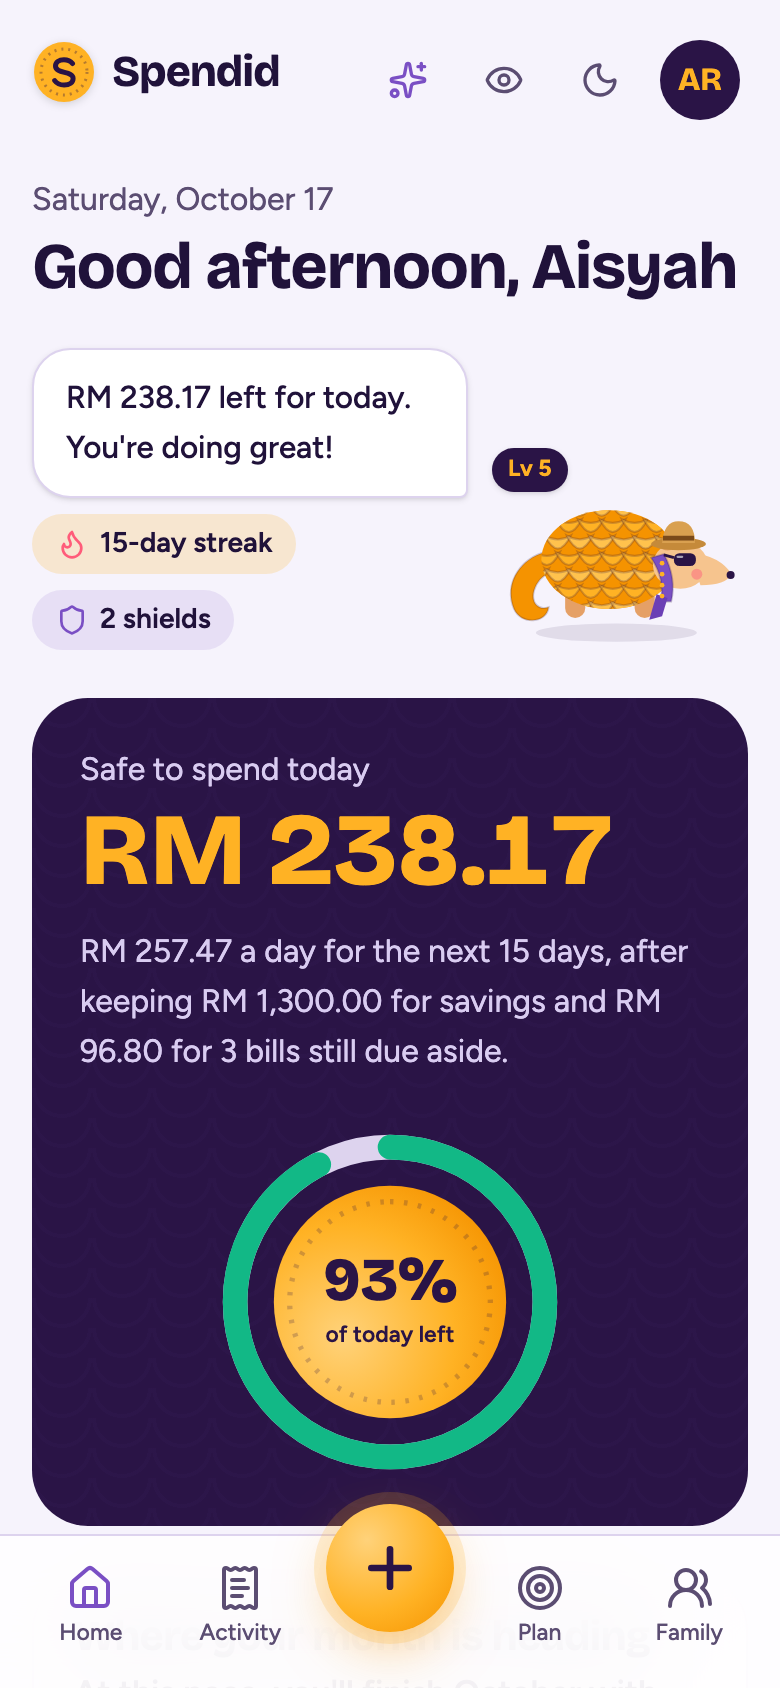
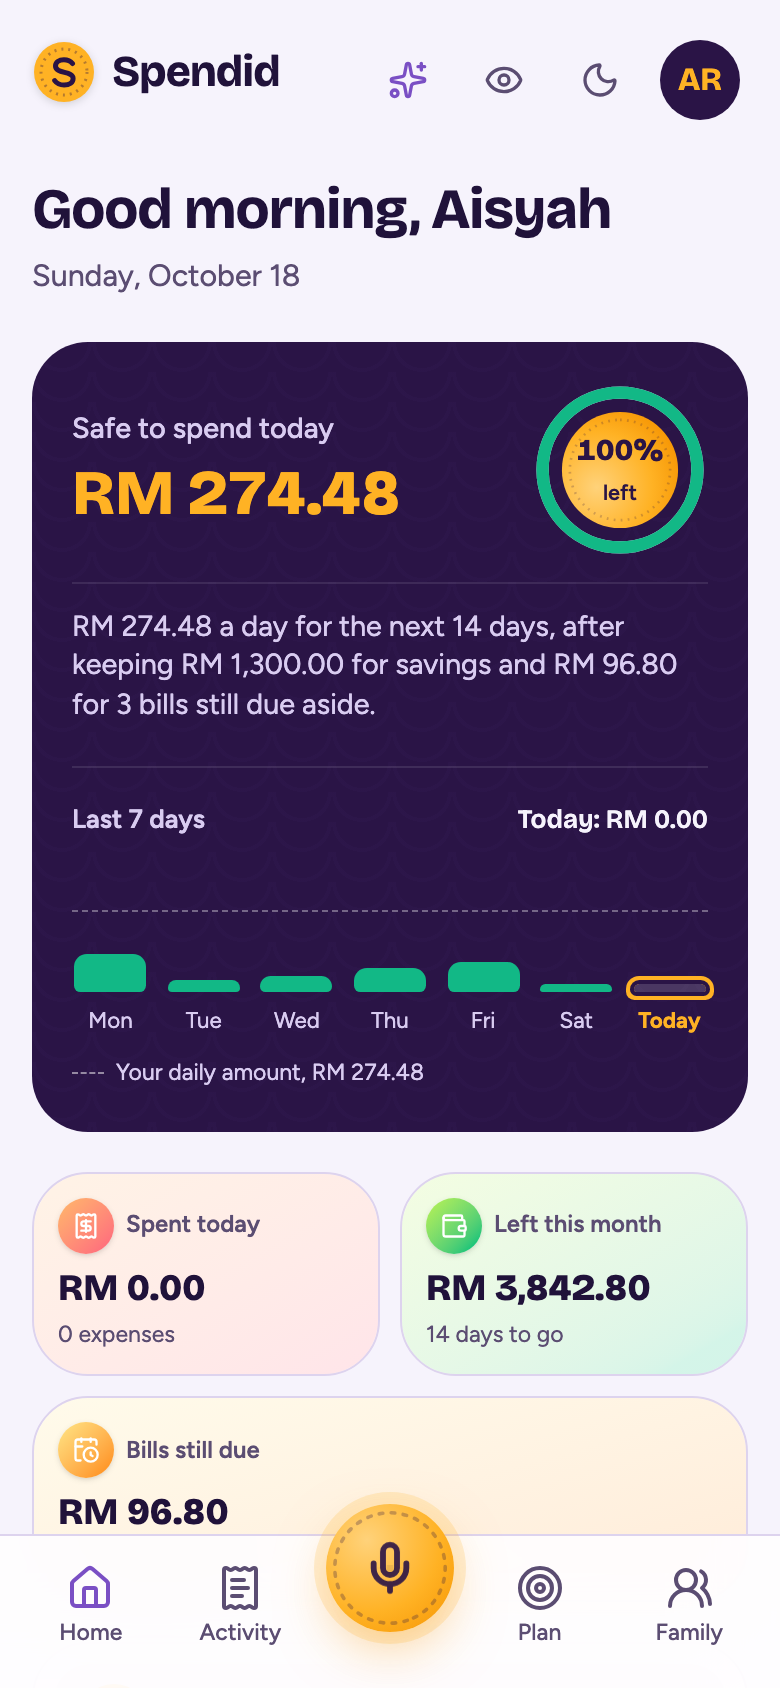
docs: README and screenshots for the redesign
New screenshots of Home, Plan, Family, Subscriptions, Ask (phone and
desktop) and Insights; tour text updated (no Pip or streak, PDF export,
earlier days); SPEC and PLAN note what was removed.

Claude-Session: https://claude.ai/code/session_01UJ5aDZHeoVVtPL6MsYHC25

diff --git a/README.md b/README.md
@@ -15,7 +15,7 @@ Share money life with family, only with consent.
 
 **Live:** [spendid.mentora.stream](https://spendid.mentora.stream) (works best on a phone; add it to your home screen)
 
-<img src="docs/screenshots/home-desktop.png" alt="Spendid home on a laptop: safe to spend today, Pip the pangolin, month pace and today's spending" width="760">
+<img src="docs/screenshots/home-desktop.png" alt="Spendid home on a laptop: safe to spend today with the last 7 days, and colour tiles for today, the month and bills" width="760">
 
 </div>
 
@@ -49,11 +49,11 @@ currency, with automatic exchange rates.
 | | |
 |---|---|
 | <img src="docs/screenshots/home-phone.png" alt="Home on a phone" width="300"> | <img src="docs/screenshots/capture.png" alt="Add spending: say it, scan a receipt or type it" width="300"> |
-| **Home.** Today's safe amount, Pip's mood, your streak, where the month is heading and what's due soon. | **Capture.** Say it, scan a receipt (or share a PDF), or type it. Everything stays editable before it's saved. |
-| <img src="docs/screenshots/pip.png" alt="Pip's daily briefing and wardrobe" width="300"> | <img src="docs/screenshots/plan.png" alt="Plan: subscriptions this month and savings goals as jars" width="300"> |
-| **Pip.** A pangolin who curls up when you overspend, shines when you're on track, and grows (and dresses up) as you keep logging. | **Plan.** Goals with a date, budgets per category, and challenges like a no-spend weekend, checked from your spending. |
-| <img src="docs/screenshots/subscriptions.png" alt="Subscriptions and bills" width="300"> | <img src="docs/screenshots/family.png" alt="Family circle with sharing levels" width="300"> |
-| **Subscriptions.** Netflix, Unifi, the gym: kept aside each month, a reminder before each is due, one tap to mark paid. | **Family.** Two-way consent, a live pulse of what your circle shares, shared jars and bill splits. |
+| **Home.** Today's safe amount with your last 7 days, what's left this month, bills still due and where the month is heading. | **Capture.** Say it, scan a receipt (or share a PDF), or type it ("grab 9 3 days ago" works too). Everything stays editable before it's saved. |
+| <img src="docs/screenshots/ask-phone.png" alt="Ask Spendid on a phone: questions previewing this month's real numbers" width="300"> | <img src="docs/screenshots/plan.png" alt="Plan: monthly income split into needs, wants and savings, and goals" width="300"> |
+| **Ask Spendid.** Questions that preview your real numbers, a live demo of logging by message, and Roast or Hype for your month. | **Plan.** Your income as one bar split by your budget style, goals with a date, challenges checked from your spending. |
+| <img src="docs/screenshots/subscriptions.png" alt="Subscriptions and bills" width="300"> | <img src="docs/screenshots/family.png" alt="Family circle: who sees what, shared jars and the family pulse" width="300"> |
+| **Subscriptions.** Netflix, Unifi, the gym: kept aside each month, a reminder before each is due, one tap to mark paid. | **Family.** A map of who sees what (two-way consent), shared jars, bill splits and a live pulse. |
 
 <img src="docs/screenshots/ask.png" alt="Ask Spendid answering from real numbers" width="760">
 
@@ -62,8 +62,9 @@ currency, with automatic exchange rates.
 
 <img src="docs/screenshots/insights.png" alt="Insights: where the money flowed, heatmap and recurring charges" width="760">
 
-**Insights**: where your money flowed (income into needs, wants, savings and categories), a
-month heatmap, subscriptions found from your spending (with price rises), and a Money Wrapped story.
+**Insights**: where your money flowed (one bar of what came in, then every category ranked; tap one
+for its expenses), a month calendar (tap a day to see its expenses), subscriptions found from your
+spending (with price rises), and a Money Wrapped story you can download as a PDF.
 
 <p align="center">
   <img src="docs/screenshots/home-dark.png" alt="Home in dark mode" width="260">
@@ -179,8 +180,9 @@ maya and adam are already in each other's circle (spouses) and save into maya's 
 
 - **Hide amounts**: the eye button in the header blurs every number on screen.
 - **Bahasa Melayu**: **Me → Language**. Saved to the profile, so it follows you; Ask Spendid answers in Malay too.
-- **Your data**: **Me → Your data** → *Download my data* (zip with a spreadsheet, receipts and everything else;
-  an email says when it's ready) or *Delete my account* (password + type DELETE).
+- **Your data**: **Me → Your data** → *Download my data* (one PDF report, with the spreadsheet, the full data
+  and every receipt photo attached inside; an email says when it's ready) or *Delete my account*
+  (password + type DELETE).
 - **Install**: in the production build Spendid installs to the home screen and opens offline. See [docs/pwa.md](docs/pwa.md).
 - **Production**: [docs/deploy.md](docs/deploy.md) — one command with HTTPS by Caddy.
 
@@ -195,10 +197,12 @@ maya and adam are already in each other's circle (spouses) and save into maya's 
 - **Voice**: talk as long as you like; each phrase is caught as you pause, then edit everything.
 - **Subscriptions & bills** (Plan → Subscriptions, or the due-soon card on Home): add Netflix, Unifi,
   the gym…; due amounts are kept aside each month, a reminder email comes N days before, Mark paid logs it.
-- **Home**: Pip (tap for the briefing and wardrobe; Pip grows as you log), streak shields,
-  **Where your month is heading** with a what-if slider.
+- **Home**: the last 7 days against your daily amount (tap a bar), colour tiles for today, the month
+  and bills, and **Where your month is heading** with a what-if slider.
+- **Earlier days**: chips for the last week and an *Earlier date* button; or type or say
+  "3 days ago", "kelmarin", "on Monday", "3 Oct".
 - **Plan → Challenges**: no-spend weekend, cook-at-home week and more, checked from your spending.
-- **Insights → Where your money flowed**: income into needs, wants, savings and categories.
+- **Insights → Where your money flowed**: one bar of what came in, then categories ranked.
 - **Receipts**: photos, screenshots or PDFs. Installed on Android, Spendid is in the share menu.
 - **Onboarding** (Me → change style, or a new account): watch your pay sorted live, then the reveal.
 

diff --git a/SPEC.md b/SPEC.md
@@ -61,8 +61,8 @@ Seeded admin: `admin` / `admin` (dev only; prod refuses insecure defaults).
 - ✨ **Photo bill splitter** (SP-23) — drag receipt items onto people, send a split link.
 
 ### Delight
-- ✨ **Pip the pangolin** — animated buddy with coin scales; shines when under budget, curls up when overspent.
-- ✨ **Streaks** (SP-20) and a 10-second **nightly check-in** ("Anything I missed today?").
+- ~~**Pip the pangolin**~~ — removed in October 2026 after user feedback (people didn't want a buddy).
+- ~~**Streaks** (SP-20) and the **nightly check-in**~~ — removed with Pip in October 2026.
 
 ### Trust and baseline
 - **SP-28** home currency + travel currencies (daily FX). **SP-29** English + Bahasa Melayu (i18n-ready).

diff --git a/PLAN.md b/PLAN.md
@@ -16,7 +16,7 @@ Dev: `make up` → web http://localhost:8600 · API http://localhost:8601 · Mai
 | M6 | Admin console + AI cockpit | ✅ |
 | M7 | Family Circle: connections, sharing, pulse, goal jars, bill split | ✅ |
 | M8 | Insights + all notification emails + Money Wrapped | ✅ |
-| M9 | Delight: Pip, streaks, nightly check-in, impulse pause | ✅ |
+| M9 | Delight: Pip, streaks, nightly check-in, impulse pause (Pip, streaks and check-in removed Oct 2026) | ✅ |
 | M10 | Trust + polish: export / delete, hide balances, BM, PWA, E2E, phone audit, docs | ✅ |
 
 ---
